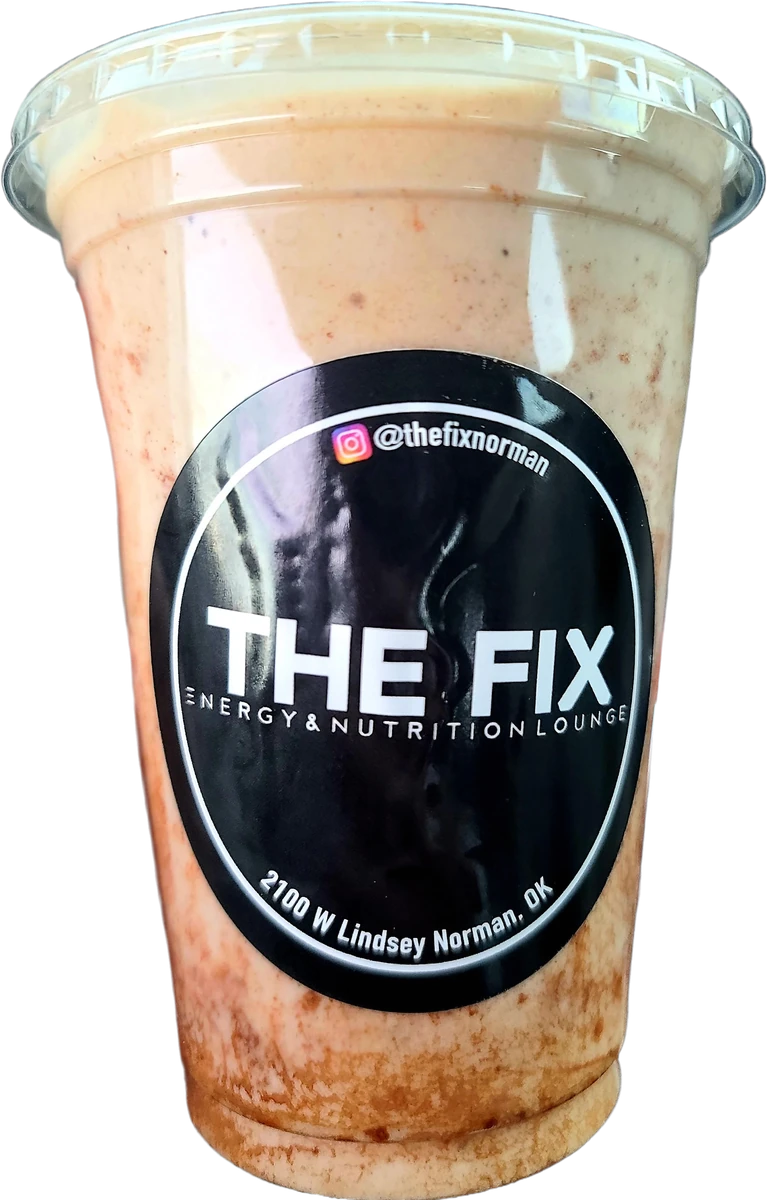
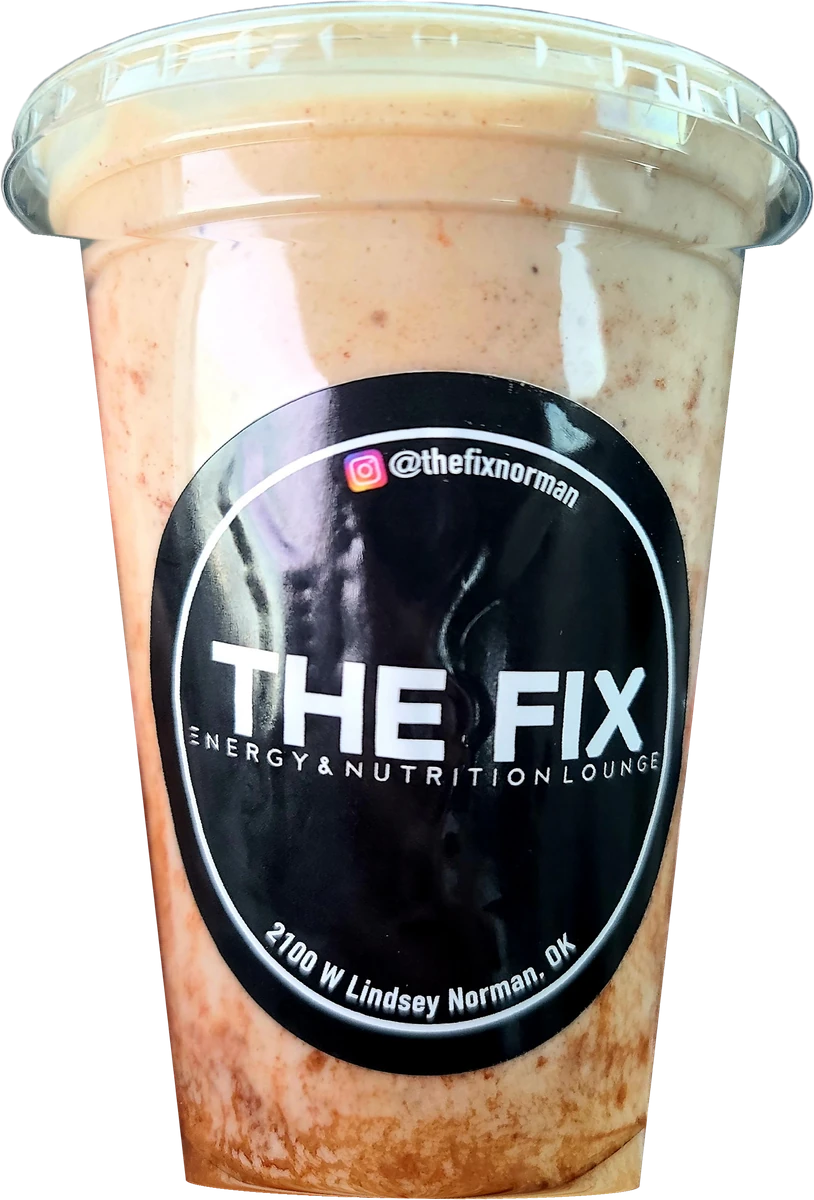
Hero cups: straight sides, flat bottoms, upright
The previous outline fix fitted the sides as curves and rounded the base, which made the
Sunset cup taper to a point. A cup is a frustum. Every cup now has one straight line per
side fitted to its real edge, ends on its last full-width row with a flat bottom (the
rounded heel is dropped, not stretched or mirrored), and is rotated until both sides
taper equally. Sprinkles is also rebuilt from an image edit, since the hand in its photo
had bitten the bottom of the cup away.

Measured at display size: every side within 0.6 px of straight, lean under 0.15 deg.

Changed region(s): [[0.0, 0.0, 1.0, 1.0], [0.4798, 0.0925, 0.5698, 0.1233], [0.1199, 0.0617, 0.1499, 0.0925]]

diff --git a/site/index.html b/site/index.html
@@ -16,8 +16,8 @@
 <link rel="preconnect" href="https://fonts.googleapis.com">
 <link rel="preconnect" href="https://fonts.gstatic.com" crossorigin>
 <link href="https://fonts.googleapis.com/css2?family=Anton&family=Bebas+Neue&family=Archivo+Black&family=Caveat:wght@600;700&family=Manrope:wght@400;500;600;700&family=Space+Mono:wght@400;700&display=swap" rel="stylesheet">
-<link rel="preload" as="image" href="img/01-cup.webp?v=202609161055">
-<link rel="stylesheet" href="css/site.css?v=202609161055">
+<link rel="preload" as="image" href="img/01-cup.webp?v=202609161117">
+<link rel="stylesheet" href="css/site.css?v=202609161117">
 </head>
 <body>
 
@@ -63,11 +63,11 @@
     </div>
 
     <div class="rig" aria-hidden="true">
-      <div class="slot is-vis" data-i="0"><picture><source media="(max-width:820px)" srcset="img/01-cup-m.webp?v=202609161055"><img class="poster" src="img/01-cup.webp?v=202609161055" alt="" decoding="async" fetchpriority="high"></picture></div>
-      <div class="slot" data-i="1"><picture><source media="(max-width:820px)" srcset="img/02-cup-m.webp?v=202609161055"><img class="poster" src="img/02-cup.webp?v=202609161055" alt="" decoding="async" loading="lazy"></picture></div>
-      <div class="slot" data-i="2"><picture><source media="(max-width:820px)" srcset="img/03-cup-m.webp?v=202609161055"><img class="poster" src="img/03-cup.webp?v=202609161055" alt="" decoding="async" loading="lazy"></picture></div>
-      <div class="slot" data-i="3"><picture><source media="(max-width:820px)" srcset="img/04-cup-m.webp?v=202609161055"><img class="poster" src="img/04-cup.webp?v=202609161055" alt="" decoding="async" loading="lazy"></picture></div>
-      <div class="slot" data-i="4"><picture><source media="(max-width:820px)" srcset="img/05-cup-m.webp?v=202609161055"><img class="poster" src="img/05-cup.webp?v=202609161055" alt="" decoding="async" loading="lazy"></picture></div>
+      <div class="slot is-vis" data-i="0"><picture><source media="(max-width:820px)" srcset="img/01-cup-m.webp?v=202609161117"><img class="poster" src="img/01-cup.webp?v=202609161117" alt="" decoding="async" fetchpriority="high"></picture></div>
+      <div class="slot" data-i="1"><picture><source media="(max-width:820px)" srcset="img/02-cup-m.webp?v=202609161117"><img class="poster" src="img/02-cup.webp?v=202609161117" alt="" decoding="async" loading="lazy"></picture></div>
+      <div class="slot" data-i="2"><picture><source media="(max-width:820px)" srcset="img/03-cup-m.webp?v=202609161117"><img class="poster" src="img/03-cup.webp?v=202609161117" alt="" decoding="async" loading="lazy"></picture></div>
+      <div class="slot" data-i="3"><picture><source media="(max-width:820px)" srcset="img/04-cup-m.webp?v=202609161117"><img class="poster" src="img/04-cup.webp?v=202609161117" alt="" decoding="async" loading="lazy"></picture></div>
+      <div class="slot" data-i="4"><picture><source media="(max-width:820px)" srcset="img/05-cup-m.webp?v=202609161117"><img class="poster" src="img/05-cup.webp?v=202609161117" alt="" decoding="async" loading="lazy"></picture></div>
     </div>
 
     <canvas class="fx fx-front" aria-hidden="true"></canvas>
@@ -291,10 +291,10 @@
   </div>
 </footer>
 
-<script src="js/vendor/gsap.min.js?v=202609161055"></script>
-<script src="js/vendor/ScrollTrigger.min.js?v=202609161055"></script>
-<script src="js/vendor/lenis.min.js?v=202609161055"></script>
-<script src="js/manifest.js?v=202609161055"></script>
-<script src="js/loadout.js?v=202609161055"></script>
+<script src="js/vendor/gsap.min.js?v=202609161117"></script>
+<script src="js/vendor/ScrollTrigger.min.js?v=202609161117"></script>
+<script src="js/vendor/lenis.min.js?v=202609161117"></script>
+<script src="js/manifest.js?v=202609161117"></script>
+<script src="js/loadout.js?v=202609161117"></script>
 </body>
 </html>

diff --git a/straightcup.py b/straightcup.py
@@ -1,0 +1,101 @@
+"""Rebuild a cup cutout's outline below the lid as a real cup: two STRAIGHT tapered sides and a
+flat bottom.
+
+Replaces smoothside_curved_v2.py, which fitted the sides as quadratics and closed them with a
+rounded base tangent to the sides. That bent the lower third inward and rounded the bottom into
+a point — Circle, 2026-09-16: "it's a cup, it doesn't curve anywhere." A 32 oz cup is a cone
+frustum: straight lines, and a bottom that is only a very shallow arc because it is seen
+slightly from above, meeting the sides at a corner.
+
+    python straightcup.py cutouts/f_sunset.bak.png cutouts/f_sunset.png [RIM_FRAC]
+"""
+import sys
+import numpy as np
+from PIL import Image, ImageFilter
+
+src, dst = sys.argv[1], sys.argv[2]
+RIM_FRAC = float(sys.argv[3]) if len(sys.argv) > 3 else 0.35   # how far down to look for the lid rim (a dome lid sits lower)
+im = Image.open(src).convert('RGBA'); a = np.array(im).astype(np.float32)
+al = a[..., 3]; H, W = al.shape
+solid = al > 128
+wide = [y for y in range(H) if solid[y].sum() > W * 0.25]
+y0 = wide[0]
+y_last = max(y for y in range(H) if solid[y].sum() > W * 0.10)   # bottom of the cup, ignoring specks
+edge = {y: (np.where(solid[y])[0].min(), np.where(solid[y])[0].max()) for y in range(y0, y_last + 1) if solid[y].any()}
+
+# the lid rim is the widest band near the top; the body starts where the width drops clear of it
+widths = {y: edge[y][1] - edge[y][0] for y in edge}
+top_rows = [y for y in edge if y < y0 + (y_last - y0) * RIM_FRAC]
+rim_w = max(widths[y] for y in top_rows)
+y_rim = max(y for y in top_rows if widths[y] >= rim_w * 0.97)
+y_top = next(y for y in range(y_rim, y_last) if y in widths and widths[y] < rim_w * 0.93) + 6
+y_fit_bot = y_last - int((y_last - y_top) * 0.06)
+
+
+def robust_line(ys, xs):
+    k = np.ones_like(xs, bool)
+    for _ in range(4):
+        c = np.polyfit(ys[k], xs[k], 1); r = np.abs(xs - np.polyval(c, ys))
+        k = r <= max(np.percentile(r, 70), 1.0)
+    return np.polyfit(ys[k], xs[k], 1)
+
+
+fy = np.array([y for y in range(y_top, y_fit_bot) if y in edge], float)
+cL = robust_line(fy, np.array([edge[int(y)][0] for y in fy], float))
+cR = robust_line(fy, np.array([edge[int(y)][1] for y in fy], float))
+Lf = lambda y: float(np.polyval(cL, y)); Rf = lambda y: float(np.polyval(cR, y))
+
+# flat bottom: corners at y_corner, the centre only a few px lower (perspective)
+sag = max(3.0, (Rf(y_last) - Lf(y_last)) * 0.035)
+y_corner = y_last - sag
+cx = (Lf(y_corner) + Rf(y_corner)) / 2; half = (Rf(y_corner) - Lf(y_corner)) / 2
+
+JOIN = 12   # rows under the lid rim over which the straight side takes over from the photo's own edge
+
+# The heel: the first row, low on the cup, where the photo's real width falls clearly short of the
+# straight width (the rounded bottom). Stretching those rows smears them and mirroring them draws a
+# visible reflection, so the cup simply ENDS there: the flat bottom goes on the last full-width row
+# and every pixel above it is real. The cup loses a few percent of height, which does not show.
+y_heel = y_last + 1
+for y in range(int(y_top + (y_last - y_top) * 0.6), y_last + 1):
+    if y in edge and (edge[y][1] - edge[y][0]) < 0.95 * (Rf(y) - Lf(y)):
+        y_heel = y; break
+y_last = min(y_last, y_heel - 1)
+sag = max(3.0, (Rf(y_last) - Lf(y_last)) * 0.035)
+y_corner = y_last - sag
+cx = (Lf(y_corner) + Rf(y_corner)) / 2; half = (Rf(y_corner) - Lf(y_corner)) / 2
+out = a.copy(); xs = np.arange(W)
+dev_before = max(max(abs(edge[y][0] - Lf(y)), abs(edge[y][1] - Rf(y))) for y in range(y_top, int(y_corner)) if y in edge)
+for y in range(y_top, H):
+    if y > y_last:
+        out[y, :, 3] = 0; continue
+    l, r = Lf(y), Rf(y)
+    if y < y_top + JOIN and y in edge:
+        w = (y - y_top) / JOIN
+        l = edge[y][0] * (1 - w) + l * w; r = edge[y][1] * (1 - w) + r * w
+    if y > y_corner:
+        t = (y - y_corner) / sag
+        hw = half * np.sqrt(max(0.0, 1 - t * t)); l, r = cx - hw, cx + hw
+    cov = np.clip(np.minimum(xs - l + 0.5, r - xs + 0.5), 0, 1)
+    # Map this row's REAL pixels (between its real edges) onto the straight span. A flat fill left
+    # visible streaks where a hand had bitten into the cup; resampling keeps the texture, and where
+    # the real edge was already on the line it changes nothing.
+    yy = y
+    while yy > y_top and (yy not in edge or edge[yy][1] - edge[yy][0] < 40):
+        yy -= 1
+    el, er = edge.get(yy, (int(l), int(r)))
+    el, er = el + 2, er - 2                        # skip the soft matte edge itself
+    li, ri = int(np.floor(l)), int(np.ceil(r))
+    if ri > li and er > el:
+        span_x = np.arange(max(li, 0), min(ri, W - 1) + 1)
+        src_x = el + (span_x - l) * (er - el) / max(r - l, 1.0)
+        src_x = np.clip(src_x, el, er)
+        x0 = np.floor(src_x).astype(int); x1 = np.minimum(x0 + 1, W - 1); f = (src_x - x0)[:, None]
+        out[y, span_x, :3] = a[yy, x0, :3] * (1 - f) + a[yy, x1, :3] * f
+    out[y, :, 3] = 255.0 * cov
+res = Image.fromarray(out.clip(0, 255).astype(np.uint8))
+res.putalpha(res.getchannel('A').filter(ImageFilter.GaussianBlur(0.5)))
+res = res.crop(res.getbbox()); res.save(dst)
+print('cup now ends at row %d (the rounded heel below it is dropped)' % y_last)
+print('%s -> %s  rim row %d, straight sides from row %d, bottom corners at %.0f (sag %.0f px); '
+      'the photo edge was up to %.1f px off a straight line' % (src, dst, y_rim, y_top, y_corner, sag, dev_before))

diff --git a/gptedit.py b/gptedit.py
@@ -25,6 +25,8 @@ ap.add_argument('--quality', default='high')
 ap.add_argument('--fidelity', default='')
 ap.add_argument('--dry-run', action='store_true')
 ap.add_argument('--one', choices=['left', 'right'], help='edit a single cup: crop it from g08, pad to 2:3, portrait output')
+ap.add_argument('--box', help='x0,y0,x1,y1 crop of --src for a single-cup edit (use with --what)')
+ap.add_argument('--what', help='how to name the cup in the prompt, e.g. "a purple and white milkshake under a clear dome lid"')
 a = ap.parse_args()
 
 cfg = json.loads((pathlib.Path.home() / '.station' / 'secrets' / 'openai.json').read_text(encoding='utf-8'))
@@ -33,18 +35,22 @@ model = cfg.get('image_model', 'gpt-image-2')
 size = '1024x1024'
 prompt = PROMPT
 src_path = a.src
-if a.one:
+if a.one or a.box:
     from PIL import Image
     im = Image.open(a.src).convert('RGB')
-    box = (0, 0, 560, im.size[1]) if a.one == 'left' else (490, 0, im.size[0], im.size[1])
+    if a.box:
+        box = tuple(int(v) for v in a.box.split(','))
+    else:
+        box = (0, 0, 560, im.size[1]) if a.one == 'left' else (490, 0, im.size[0], im.size[1])
     crop = im.crop(box)
-    H = 1150; W = int(H * 2 / 3)
+    H = max(1150, int(crop.size[1] * 1.08)); W = int(H * 2 / 3)
+    if crop.size[0] > W: W = int(crop.size[0] * 1.08); H = int(W * 3 / 2)
     canvas = Image.new('RGB', (W, H), (250, 250, 250))
     canvas.paste(crop, ((W - crop.size[0]) // 2, (H - crop.size[1]) // 2))
-    src_path = 'edits/_in_%s.png' % a.one
+    src_path = 'edits/_in_%s.png' % (a.one or 'box')
     canvas.save(src_path)
     size = '1024x1536'
-    what = ('the RED cup that fades down to orange' if a.one == 'left'
+    what = a.what or ('the RED cup that fades down to orange' if a.one == 'left'
             else 'the BLUE cup that fades down through green to yellow')
     prompt = ("Photo edit. This photo shows " + what + " held by a hand. Remove the hand, every finger, "
               "the painted nails and any sleeve completely, and remove any part of a second cup, lid or straw "
@@ -54,6 +60,16 @@ if a.one:
               "that part so it matches the rest of the same cup, with straight tapered sides and a rounded "
               "base. Show the whole cup, nothing cut off. Nothing holds it. Background: plain, even, pure "
               "white. Do not add, restyle or re-colour anything. Photorealistic, same lighting.")
+    if a.box:
+        prompt = ("Photo edit. This photo shows " + what + " held by a hand in front of a neon sign. "
+                  "Remove the hand and every finger completely. Keep this one cup exactly as it is: the same "
+                  "clear dome lid with the rainbow sprinkles on top, the same cream shake, the same purple "
+                  "streaks inside the cup, the same round black sticker with its exact white text "
+                  "(@thefixnorman, THE FIX, ENERGY & NUTRITION, 2100 W Lindsey Norman, OK), the same angle "
+                  "and lighting. Where the hand covered the cup, rebuild that part to match the rest of the "
+                  "same cup. A plastic cup has straight tapered sides and a flat bottom: no curve in the "
+                  "sides. Show the whole cup, nothing cut off. Nothing holds it. Background: plain, even, "
+                  "pure white, no sign. Do not add, restyle, re-colour or re-letter anything. Photorealistic.")
 if a.dry_run:
     print('DRY RUN', model, src_path, size, a.quality, a.out); sys.exit(0)
 data = {'model': model, 'prompt': prompt, 'size': size, 'quality': a.quality, 'n': '1'}

diff --git a/level.py b/level.py
@@ -1,0 +1,44 @@
+"""Stand a straight-sided cup cutout truly upright: fit a line to each side of the body and
+rotate so the two sides taper by the same amount (the cup's axis is vertical).
+
+    python level.py cutouts/f_sunset.png [RIM_FRAC]     prints before/after slopes, rewrites in place
+"""
+import sys
+import numpy as np
+from PIL import Image
+
+path = sys.argv[1]
+RIM_FRAC = float(sys.argv[2]) if len(sys.argv) > 2 else 0.35
+
+
+def sides(img):
+    al = np.array(img)[..., 3]; h, w = al.shape
+    rows = [y for y in range(h) if (al[y] > 128).sum() > w * 0.10]
+    y0, y1 = rows[0], rows[-1]
+    wid = {y: (np.where(al[y] > 128)[0][0], np.where(al[y] > 128)[0][-1]) for y in rows}
+    top = [y for y in rows if y < y0 + (y1 - y0) * RIM_FRAC]
+    rim = max(wid[y][1] - wid[y][0] for y in top)
+    yr = max(y for y in top if wid[y][1] - wid[y][0] >= rim * 0.97)
+    lo = next(y for y in rows if y > yr and wid[y][1] - wid[y][0] < rim * 0.93) + 15
+    hi = y1 - int((y1 - lo) * 0.06)
+    ys = np.array([y for y in rows if lo <= y <= hi], float)
+    sl = np.polyfit(ys, [wid[int(y)][0] for y in ys], 1)[0]
+    sr = np.polyfit(ys, [wid[int(y)][1] for y in ys], 1)[0]
+    return sl, sr
+
+
+im = Image.open(path).convert('RGBA')
+sl, sr = sides(im)
+axis = (sl + sr) / 2                     # dx/dy of the centre line; 0 = upright
+deg = float(np.degrees(np.arctan(axis)))
+print('%s  before: left side %+.3f, right side %+.3f px/px, lean %.2f deg' % (path, sl, sr, deg))
+if abs(deg) < 0.25:
+    print('   already upright'); sys.exit(0)
+pad = int(max(im.size) * 0.12)
+big = Image.new('RGBA', (im.size[0] + 2 * pad, im.size[1] + 2 * pad), (0, 0, 0, 0))
+big.paste(im, (pad, pad))
+big = big.rotate(-deg, resample=Image.BICUBIC, expand=True)
+big = big.crop(big.getbbox())
+sl2, sr2 = sides(big)
+print('   after:  left side %+.3f, right side %+.3f px/px, lean %.2f deg' % (sl2, sr2, np.degrees(np.arctan((sl2 + sr2) / 2))))
+big.save(path)

diff --git a/finishedit.py b/finishedit.py
@@ -43,6 +43,7 @@ def cut(src, out):
 
 # one cup per process: two BiRefNet runs in one process exhaust this box's memory
 JOBS = {'sunset': ('edits/one_left.png', 'cutouts/f_sunset.png'),
-        'rainbow': ('edits/one_right.png', 'cutouts/f_rainbow.png')}
+        'rainbow': ('edits/one_right.png', 'cutouts/f_rainbow.png'),
+        'sprinkle': ('edits/one_sprinkle.png', 'cutouts/f_sprinkle.png')}
 for name in (sys.argv[1:] or ['sunset']):
     cut(*JOBS[name])

diff --git a/STATE.md b/STATE.md
@@ -35,7 +35,7 @@ Sunset repaints showed rectangular blocks, a seam and ragged edges. **Judge a cu
 | 02 Sunset | g08 left cup | **GPT Image 2 edit** removed the hand and sleeve (`gptedit.py --one left`), then matte + upright |
 | 03 Pink | g03 | BiRefNet matte of the photograph, loose straw removed, stood upright (it leaned 8°) |
 | 04 Cinnamon | g04 | BiRefNet matte of the photograph |
-| 05 Sprinkles | g09 | BiRefNet matte of the photograph |
+| 05 Sprinkles | g09 | **GPT Image 2 edit** removed the hand, then matte, straight sides, level |
 
 - **Rainbow and Sunset are their photo with the hands removed by an image model**, the same thing The Tower's
   site did with Kling O1 (v4.1 there). The drink, colours, lid, striped straw, ice and ribbing all match
@@ -49,13 +49,20 @@ Sunset repaints showed rectangular blocks, a seam and ragged edges. **Judge a cu
   matte is predicted on a 1024 px copy.
 - Rejected, do not retry: repainting from the clean half (`repair.py::dehand` — kept for reference, it is
   what shipped the blocky v2), skin-by-colour masks, u2net_human_seg as a hand mask.
-- **The dent (Circle, 2026-09-16).** The 32 oz cups step inward where the ribbed base starts; matted and stood
-  upright, that step read as a dent on one side of Rainbow. `smoothside.py SRC DST` rebuilds the outline under
-  the lid: each side a robust quadratic fitted to the real edge, blended in over 90 rows so the join under the
-  lid has no step, and a base ellipse tangent to the sides. Run it on `cutouts/f_{rainbow,sunset}.bak.png`
-  (the untouched cutouts). Measured after: sides move at most 1 px per row, worst kink 1.5 px. The same
-  check on the other cups flags only the lid rim, which is the real shape. A first version moved only the
-  sides and left a corner at the base and a grey hairline — check the base at 200% after any outline edit.
+- **Cup outlines (Circle, 2026-09-16: "it's a cup, it doesn't curve anywhere").** Every hero cup now goes
+  through `straightcup.py SRC DST [RIM_FRAC]` then `level.py DST [RIM_FRAC]`, from the untouched cutouts
+  `cutouts/f_{rainbow,sunset,pink,shake}.bak.png` and `f_sprinkle.edit.bak.png`:
+  - each side is ONE straight line fitted to the real edge under the lid rim;
+  - the cup ends on the last full-width row above the rounded heel, with a flat bottom (a 3.5% arc for
+    perspective, meeting the sides at a corner). The heel is dropped, not rebuilt: stretching it smeared the
+    texture and mirroring it drew a visible reflection on Cinnamon and Sprinkles. Cups lose 3-6% height;
+  - `level.py` rotates until both sides taper equally (Sprinkles leaned 2.4 deg, the rest under 1).
+  Measured after: every side within 0.6 px of a straight line at display size, lean under 0.15 deg.
+- **Do not reuse `smoothside` (deleted).** It fitted the sides as curves with a rounded base and made the
+  Sunset taper to a point. Circle's words for it are in the session; a cup is a frustum.
+- Sprinkles is now also an image edit (`gptedit.py --src photos/raw/g09_hi.jpg --box 256,1067,966,2048`):
+  the hand in g09 had bitten the bottom-left of the cup away. Sticker text checked against the photo.
+- Cup `<img>` URLs carry `?v=` like css/js, so a phone that has seen an old cup gets the new one.
 - The shakes have no straw, so they draw at 64% (phone 40%) of the stage instead of 74% (47%) to read the
   same size as the teas.
 
